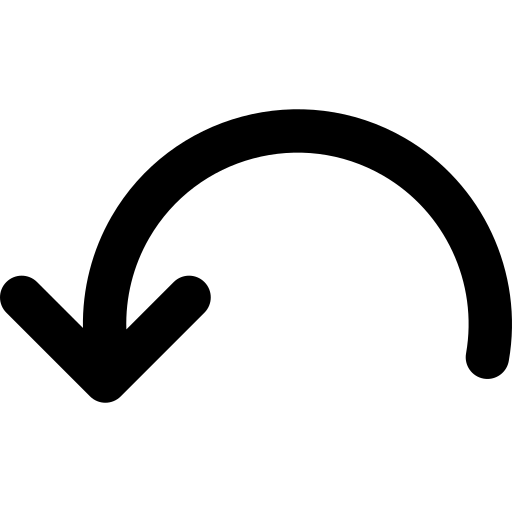
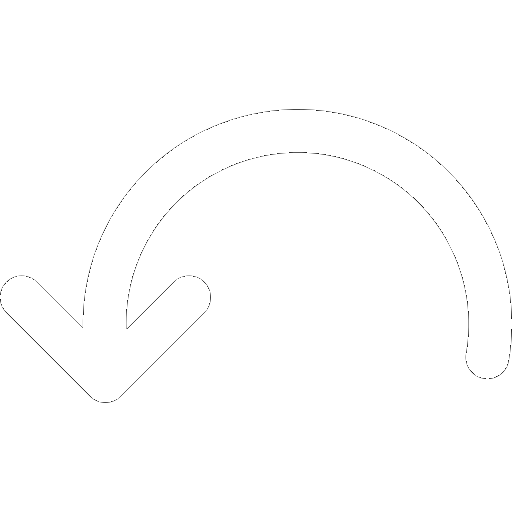
Added gate coloring for each game mode, made the turn arrows white for better visibility

Changed region(s): [[0.0, 0.1875, 1.0, 0.8125]]

diff --git a/src/main/kotlin/view/MainGameScene.kt b/src/main/kotlin/view/MainGameScene.kt
@@ -1019,6 +1019,100 @@ class MainGameScene(private val rootService: RootService) : BoardGameScene(2160,
         }
     }
 
+    /**
+     *  Sets the corresponding gate colors for each game mode.
+     */
+    private fun initializeGateColors() {
+        val game = rootService.currentGame
+        checkNotNull(game)
+
+        val playerCount = game.currentPlayers.size
+
+        if (playerCount == 2) {
+            // Set the first gate colors
+            gateOneOne.visual = ImageVisual("color_${game.currentPlayers[0].color.toString().lowercase()}.png")
+            gateOneTwo.visual = ImageVisual("color_${game.currentPlayers[0].color.toString().lowercase()}.png")
+            // Set the Second gate colors
+            gateTwoOne.visual = ImageVisual("color_${game.currentPlayers[1].color.toString().lowercase()}.png")
+            gateTwoTwo.visual = ImageVisual("color_${game.currentPlayers[1].color.toString().lowercase()}.png")
+            // Set the third gate colors
+            gateThreeOne.visual = ImageVisual("color_${game.currentPlayers[0].color.toString().lowercase()}.png")
+            gateThreeTwo.visual = ImageVisual("color_${game.currentPlayers[0].color.toString().lowercase()}.png")
+            // Set the fourth gate colors
+            gateFourOne.visual = ImageVisual("color_${game.currentPlayers[1].color.toString().lowercase()}.png")
+            gateFourTwo.visual = ImageVisual("color_${game.currentPlayers[1].color.toString().lowercase()}.png")
+            // Set the fifth gate colors
+            gateFiveOne.visual = ImageVisual("color_${game.currentPlayers[0].color.toString().lowercase()}.png")
+            gateFiveTwo.visual = ImageVisual("color_${game.currentPlayers[0].color.toString().lowercase()}.png")
+            // Set the sixth gate colors
+            gateSixOne.visual = ImageVisual("color_${game.currentPlayers[1].color.toString().lowercase()}.png")
+            gateSixTwo.visual = ImageVisual("color_${game.currentPlayers[1].color.toString().lowercase()}.png")
+        }
+        if (playerCount == 3 && game.sharedGates) {
+            // Set the first gate colors
+            gateOneOne.visual = ImageVisual("color_${game.currentPlayers[0].color.toString().lowercase()}.png")
+            gateOneTwo.visual = ImageVisual("color_${game.currentPlayers[0].color.toString().lowercase()}.png")
+            // Set the Second gate colors
+            gateTwoOne.visual = ImageVisual("color_${game.currentPlayers[0].color.toString().lowercase()}.png")
+            gateTwoTwo.visual = ImageVisual("color_${game.currentPlayers[1].color.toString().lowercase()}.png")
+            // Set the third gate colors
+            gateThreeOne.visual = ImageVisual("color_${game.currentPlayers[2].color.toString().lowercase()}.png")
+            gateThreeTwo.visual = ImageVisual("color_${game.currentPlayers[2].color.toString().lowercase()}.png")
+            // Set the fourth gate colors
+            gateFourOne.visual = ImageVisual("color_${game.currentPlayers[2].color.toString().lowercase()}.png")
+            gateFourTwo.visual = ImageVisual("color_${game.currentPlayers[0].color.toString().lowercase()}.png")
+            // Set the fifth gate colors
+            gateFiveOne.visual = ImageVisual("color_${game.currentPlayers[1].color.toString().lowercase()}.png")
+            gateFiveTwo.visual = ImageVisual("color_${game.currentPlayers[1].color.toString().lowercase()}.png")
+            // Set the sixth gate colors
+            gateSixOne.visual = ImageVisual("color_${game.currentPlayers[1].color.toString().lowercase()}.png")
+            gateSixTwo.visual = ImageVisual("color_${game.currentPlayers[2].color.toString().lowercase()}.png")
+
+        }
+        if (playerCount == 3 && !game.sharedGates) {
+            // Set the first gate colors
+            gateOneOne.visual = ImageVisual("color_${game.currentPlayers[0].color.toString().lowercase()}.png")
+            gateOneTwo.visual = ImageVisual("color_${game.currentPlayers[1].color.toString().lowercase()}.png")
+            // Set the Second gate colors
+            gateTwoOne.visual = ImageVisual("color_${game.currentPlayers[2].color.toString().lowercase()}.png")
+            gateTwoTwo.visual = ImageVisual("color_${game.currentPlayers[0].color.toString().lowercase()}.png")
+            // Set the third gate colors
+            gateThreeOne.visual = ImageVisual("color_${game.currentPlayers[1].color.toString().lowercase()}.png")
+            gateThreeTwo.visual = ImageVisual("color_${game.currentPlayers[2].color.toString().lowercase()}.png")
+            // Set the fourth gate colors
+            gateFourOne.visual = ImageVisual("color_${game.currentPlayers[0].color.toString().lowercase()}.png")
+            gateFourTwo.visual = ImageVisual("color_${game.currentPlayers[1].color.toString().lowercase()}.png")
+            // Set the fifth gate colors
+            gateFiveOne.visual = ImageVisual("color_${game.currentPlayers[2].color.toString().lowercase()}.png")
+            gateFiveTwo.visual = ImageVisual("color_${game.currentPlayers[0].color.toString().lowercase()}.png")
+            // Set the sixth gate colors
+            gateSixOne.visual = ImageVisual("color_${game.currentPlayers[1].color.toString().lowercase()}.png")
+            gateSixTwo.visual = ImageVisual("color_${game.currentPlayers[2].color.toString().lowercase()}.png")
+
+        }
+        if (playerCount == 4) {
+            // Set the first gate colors
+            gateOneOne.visual = ImageVisual("color_${game.currentPlayers[0].color.toString().lowercase()}.png")
+            gateOneTwo.visual = ImageVisual("color_${game.currentPlayers[1].color.toString().lowercase()}.png")
+            // Set the Second gate colors
+            gateTwoOne.visual = ImageVisual("color_${game.currentPlayers[1].color.toString().lowercase()}.png")
+            gateTwoTwo.visual = ImageVisual("color_${game.currentPlayers[2].color.toString().lowercase()}.png")
+            // Set the third gate colors
+            gateThreeOne.visual = ImageVisual("color_${game.currentPlayers[0].color.toString().lowercase()}.png")
+            gateThreeTwo.visual = ImageVisual("color_${game.currentPlayers[3].color.toString().lowercase()}.png")
+            // Set the fourth gate colors
+            gateFourOne.visual = ImageVisual("color_${game.currentPlayers[3].color.toString().lowercase()}.png")
+            gateFourTwo.visual = ImageVisual("color_${game.currentPlayers[1].color.toString().lowercase()}.png")
+            // Set the fifth gate colors
+            gateFiveOne.visual = ImageVisual("color_${game.currentPlayers[2].color.toString().lowercase()}.png")
+            gateFiveTwo.visual = ImageVisual("color_${game.currentPlayers[1].color.toString().lowercase()}.png")
+            // Set the sixth gate colors
+            gateSixOne.visual = ImageVisual("color_${game.currentPlayers[2].color.toString().lowercase()}.png")
+            gateSixTwo.visual = ImageVisual("color_${game.currentPlayers[3].color.toString().lowercase()}.png")
+
+        }
+    }
+
     override fun refreshAfterNewGame() {
         val game = rootService.currentGame
         checkNotNull(game)
@@ -1054,6 +1148,7 @@ class MainGameScene(private val rootService: RootService) : BoardGameScene(2160,
         }
         // Initialize the board, show the heldTiles of all players and set the gem count to 0
         initializeGameBoard()
+        initializeGateColors()
         updateHeldTiles()
         updatePlayerGems()
     }
